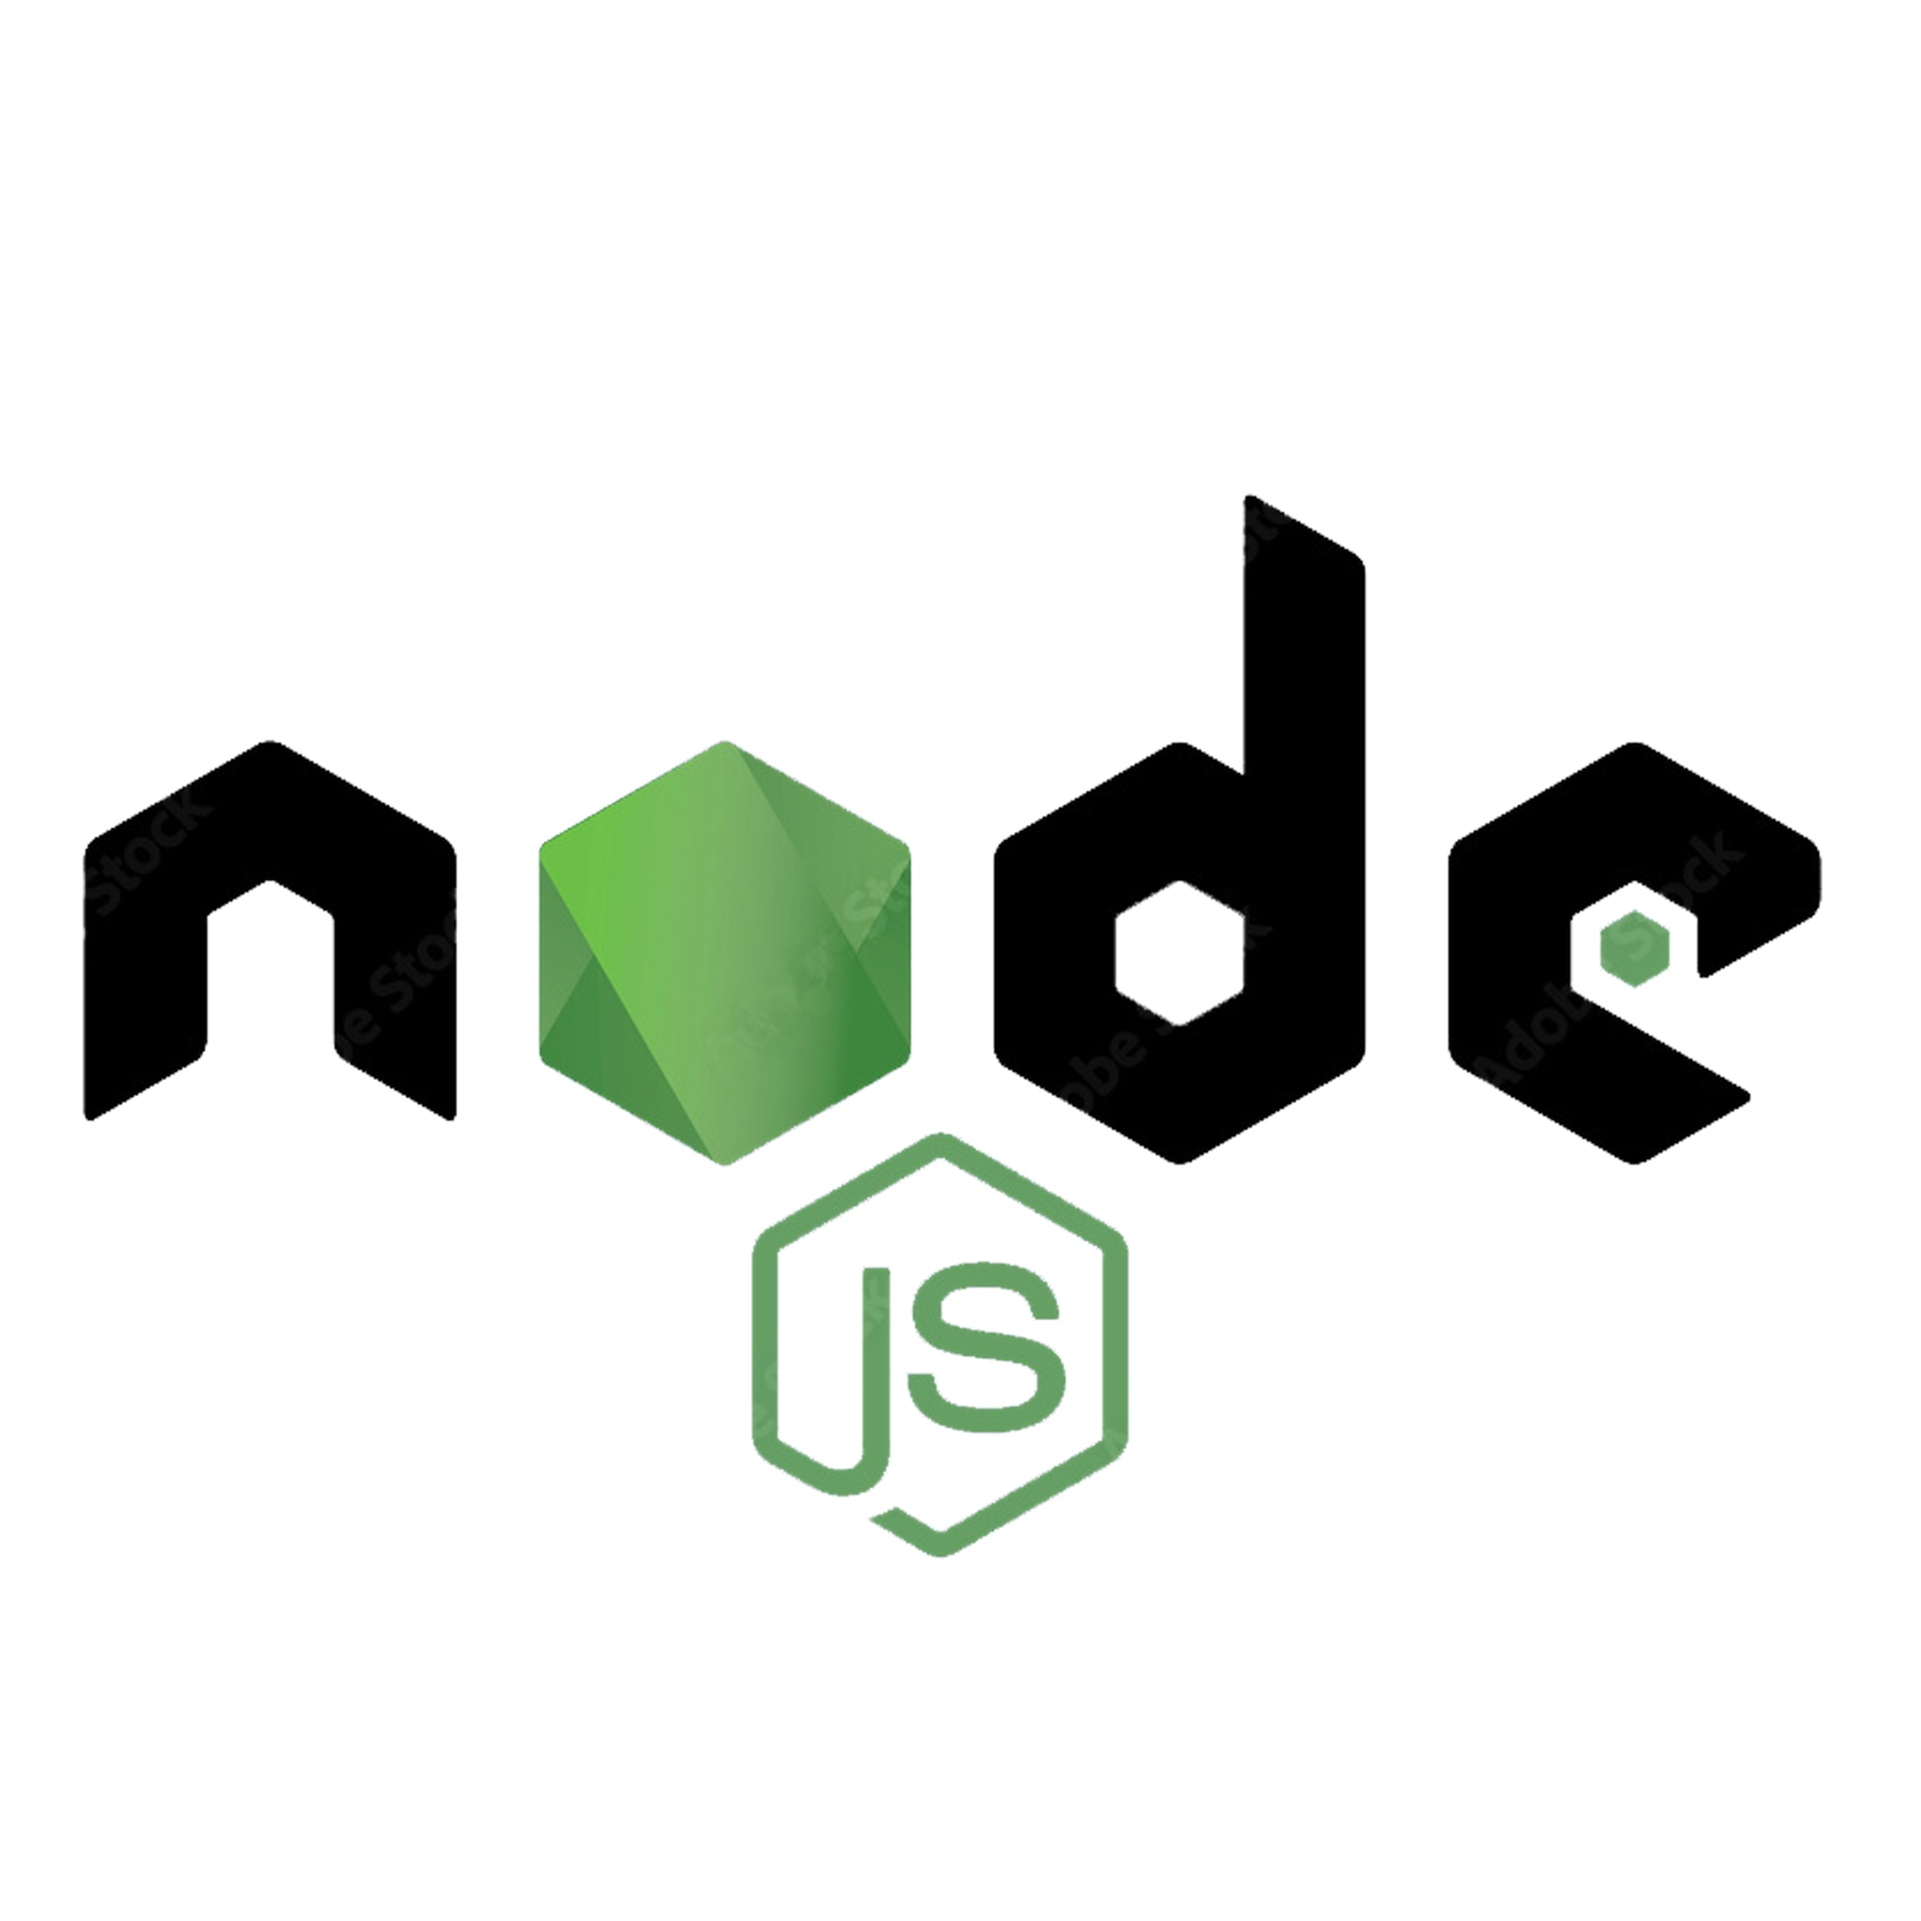
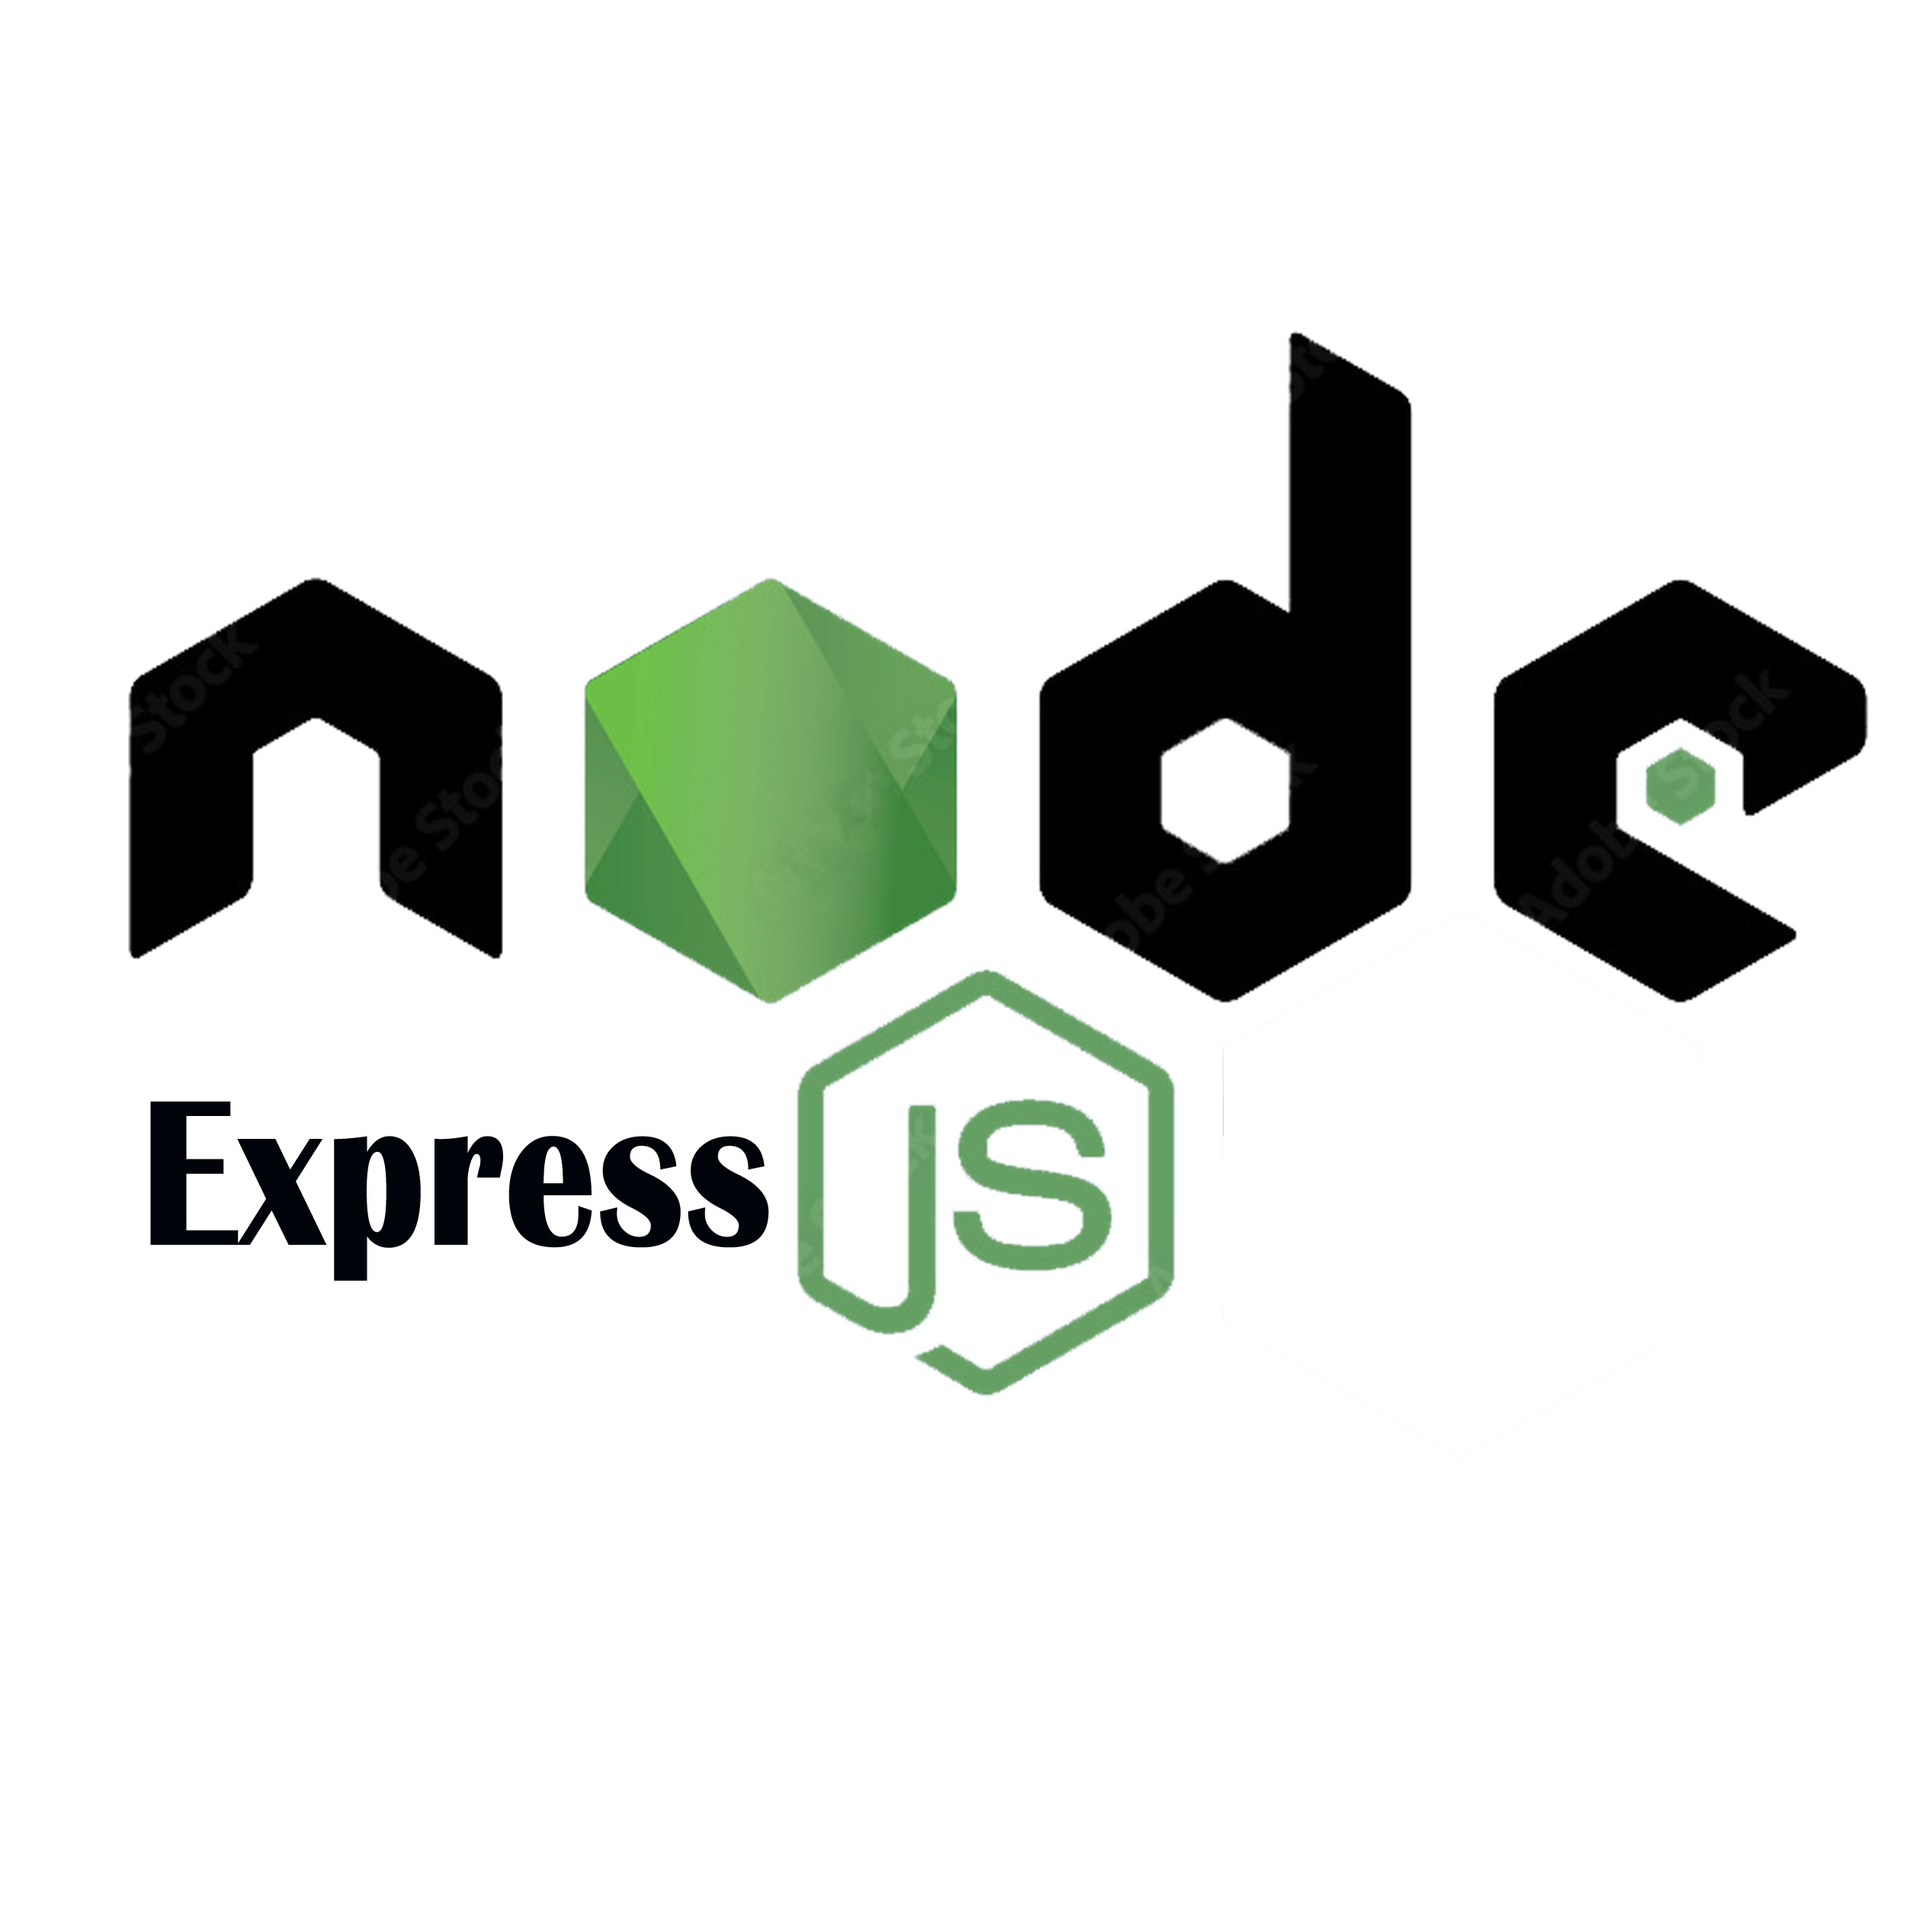
express add

Changed region(s): [[0.031, 0.1548, 0.9905, 0.8048]]

diff --git a/index.html b/index.html
@@ -192,13 +192,12 @@
                 <div class="services-box">
                     <div class="services-box-icon">
                         <a href="https://en.wikipedia.org/wiki/Node.js" target="_blank" rel="noopener noreferrer"> <img
-                                class="imge" src="images/nodejs.png" alt="nodejs"> </a>
+                                class="imge" src="images/express and nodejs.png" alt="nodejs"> </a>
                     </div>
                     <div class="services-box-body">
-                        <h5>Node JS</h5>
+                        <h5>Node JS & Express</h5>
                         <p>
-                            Node.js is a cross-platform JavaScript run-time environment and command line tools for
-                            server-side scripts.
+                            Node.js is a cross-platform JavaScript run-time environment and Express is a node js web application framework.
                         </p>
                     </div>
                 </div>
